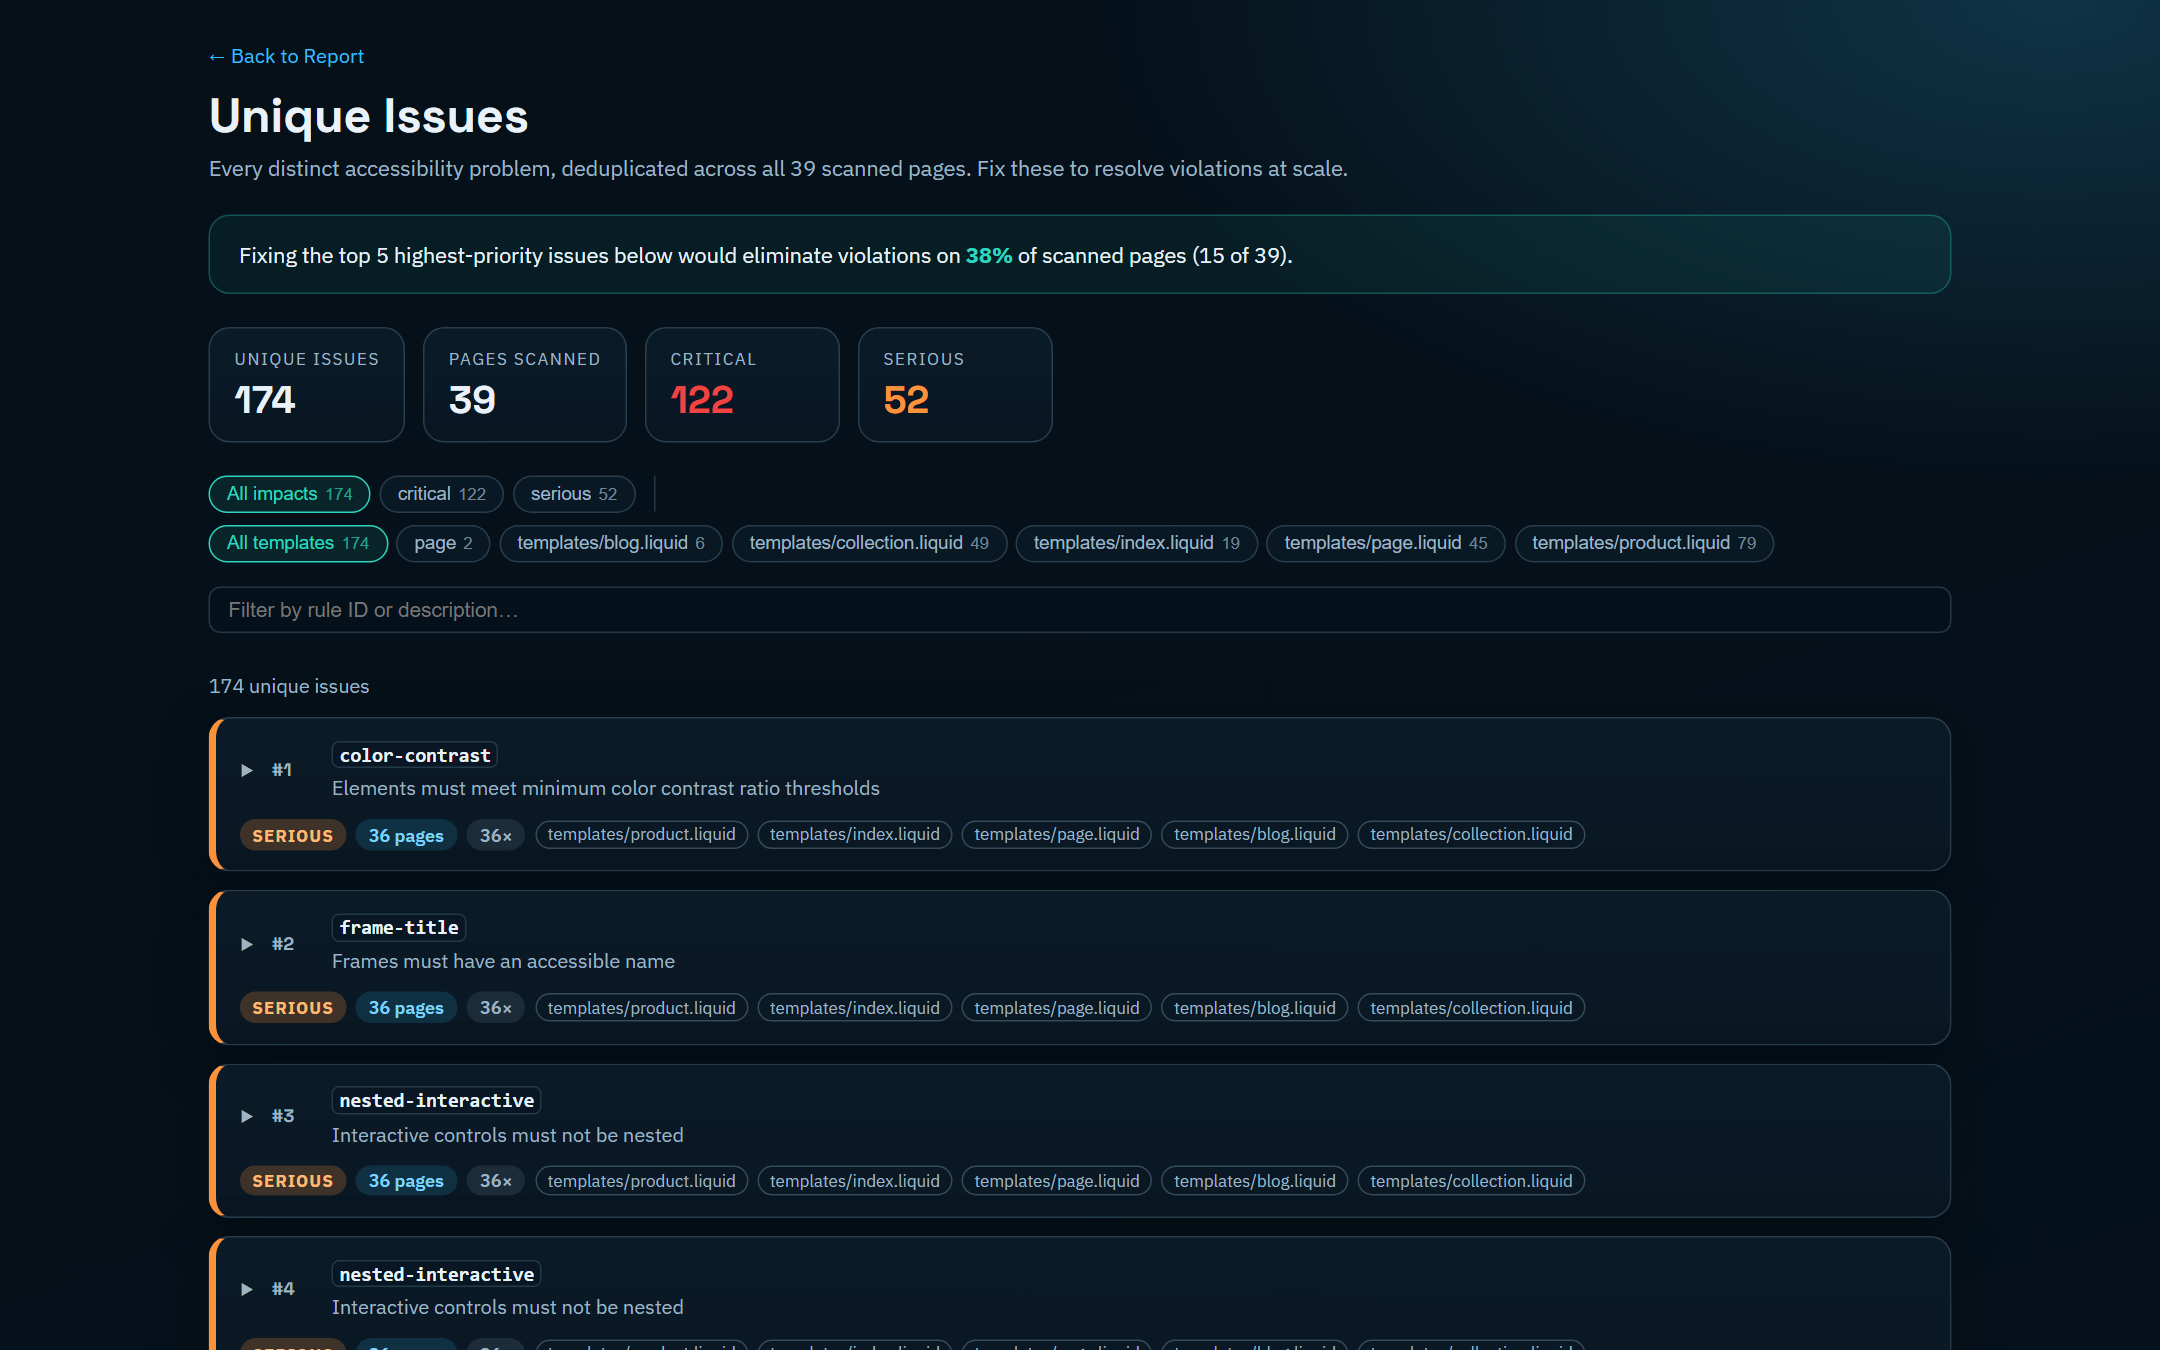
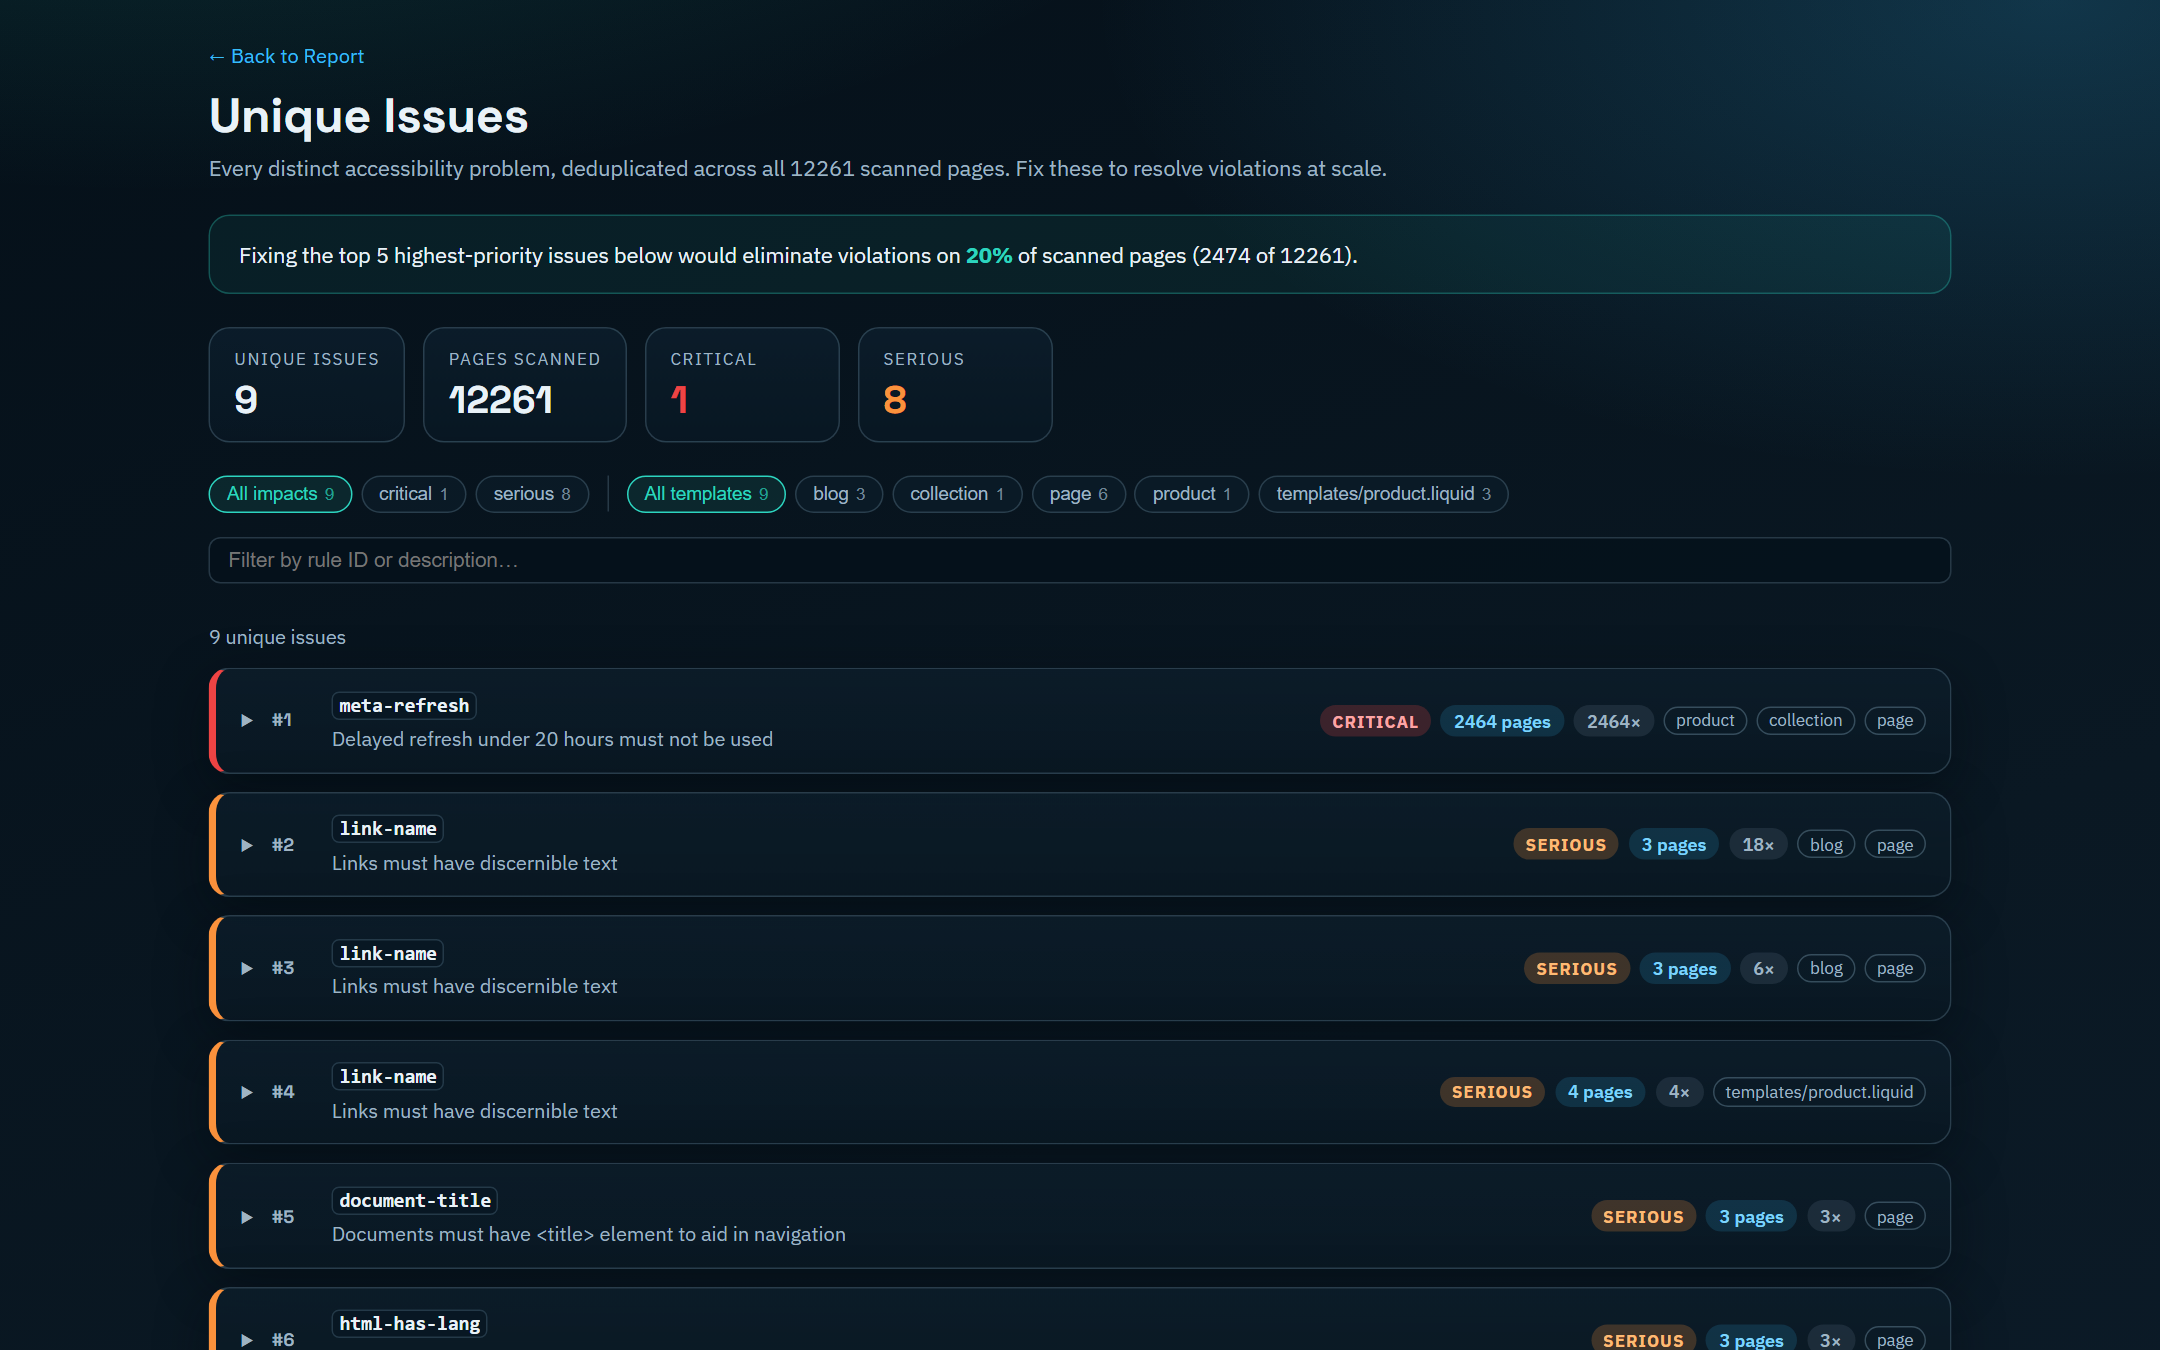
Refresh landing screenshots with the Scenery en Zo scan (12,261 pages)
Bigger-numbers project makes the whole-site pitch more visceral. Updates
all four screenshots and the alt text everywhere they're referenced.

diff --git a/site/index.html b/site/index.html
@@ -583,12 +583,12 @@
             <span class="browser-dot r"></span>
             <span class="browser-dot y"></span>
             <span class="browser-dot g"></span>
-            <span class="browser-url">includa://projects/cytoled</span>
+            <span class="browser-url">includa://projects/scenery-en-zo</span>
           </div>
           <img
             class="browser-shot"
             src="images/live-dashboard.png"
-            alt="Includa live dashboard showing a completed scan of cytoled.com — Tested at AAA, WCAG Compliance: Fails WCAG A, Score 52 of 100, 39 pages scanned, 479 violations including 178 critical and 301 serious."
+            alt="Includa live dashboard showing a completed scan of scenery-en-zo.myshopify.com — Tested at AAA, WCAG Compliance: Fails WCAG A, Score 73 of 100, 12,261 pages scanned, 2,503 violations including 2,464 critical and 39 serious."
             width="2160"
             height="1350"
           />
@@ -709,7 +709,7 @@
               <img
                 class="browser-shot"
                 src="images/unique-issues.png"
-                alt="Unique Issues report showing 174 distinct accessibility problems deduplicated across 39 scanned pages. Top issues include color-contrast affecting 36 pages, frame-title affecting 36 pages, and nested-interactive controls. Filters at the top let you slice by impact level or page template."
+                alt="Unique Issues report showing 9 distinct accessibility problems deduplicated across 12,261 scanned pages — 1 critical and 8 serious. Filters at the top let you slice by impact level or page template."
                 loading="lazy"
                 width="2160"
                 height="1350"
@@ -739,7 +739,7 @@
               <img
                 class="browser-shot"
                 src="images/static-report.png"
-                alt="Accessibility Report for cytoled.com. Score 52 out of 100 marked Needs Work. Tested at WCAG AAA. Compliance: Fails WCAG A with 480 Level A violations. Summary stats show 39 pages scanned, 479 total violations, 178 critical, 301 serious, 174 unique deduplicated issues."
+                alt="Accessibility Report for scenery-en-zo.myshopify.com. Score 73 out of 100. Tested at WCAG AAA. Compliance: Fails WCAG A with 2,503 Level A violations. Summary stats show 12,261 pages scanned, 2,503 total violations, 2,464 critical, 39 serious, 9 unique deduplicated issues."
                 loading="lazy"
                 width="2160"
                 height="1350"

diff --git a/scripts/take-screenshots.js b/scripts/take-screenshots.js
@@ -17,8 +17,8 @@ const DATA_DIR = path.join(projectRoot, "a11y-projects")
 const OUT_DIR = path.join(projectRoot, "site", "images")
 const VIEWPORT = { width: 1440, height: 900 }
 
-// CytoLED — biggest scan, most striking numbers (479 violations / 39 pages).
-const TARGET_PROJECT_ID = "965df3002d04"
+// Scenery en Zo — Shopify storefront with 2,503 violations across 12,261 pages.
+const TARGET_PROJECT_ID = "034b6db613be"
 
 async function shoot(page, url, file, opts = {}) {
   console.log(`  → ${file}`)
@@ -45,7 +45,7 @@ async function main() {
     // 1. Projects home — multi-project list with stats
     await shoot(page, `http://127.0.0.1:${PORT}/`, "projects-home.png")
 
-    // 2. Live dashboard for the CytoLED scan (completed)
+    // 2. Live dashboard for the completed Scenery en Zo scan
     await shoot(page, `http://127.0.0.1:${PORT}/projects/${TARGET_PROJECT_ID}/`, "live-dashboard.png", { settleMs: 2500 })
 
     // 3. Unique issues — capture viewport (the full page is huge, just grab the top)

diff --git a/README.md b/README.md
@@ -25,7 +25,7 @@ Most a11y tools test one URL at a time. They tell you the homepage has 12 issues
 A scan of a typical mid-size storefront produces hundreds of raw violations. Includa fingerprints them by rule + normalized selector, so the same broken pattern on 200 pages collapses into a single entry. You go from "fix 1,200 violations" to "fix 8 root causes," with the affected page count next to each.
 
 <div align="center">
-  <img src="site/images/live-dashboard.png" alt="Includa live dashboard showing a completed scan with 39 pages, 479 violations, score 52/100, and a Fails WCAG A compliance badge" width="100%" />
+  <img src="site/images/live-dashboard.png" alt="Includa live dashboard showing a completed scan with 12,261 pages, 2,503 violations, score 73/100, and a Fails WCAG A compliance badge" width="100%" />
   <p align="center"><sub>The live dashboard during a completed scan</sub></p>
 </div>
 
@@ -147,12 +147,12 @@ report/
     <td width="50%" valign="top">
       <strong>Unique Issues view</strong><br />
       <sub>Deduplicated, sortable, filterable by impact and template. Each issue ships with an AI Fix Prompt.</sub><br /><br />
-      <img src="site/images/unique-issues.png" alt="Unique Issues report listing 174 distinct accessibility problems deduplicated across 39 pages" />
+      <img src="site/images/unique-issues.png" alt="Unique Issues report listing 9 distinct accessibility problems deduplicated across 12,261 pages" />
     </td>
     <td width="50%" valign="top">
       <strong>Static report</strong><br />
       <sub>One-page summary suitable for sharing with stakeholders. Score, compliance, severity breakdown, drilldowns.</sub><br /><br />
-      <img src="site/images/static-report.png" alt="Accessibility report static page showing score 52/100, Fails WCAG A compliance, severity breakdown, and per-template violation counts" />
+      <img src="site/images/static-report.png" alt="Accessibility report static page showing score 73/100, Fails WCAG A compliance, severity breakdown, and per-template violation counts" />
     </td>
   </tr>
 </table>
